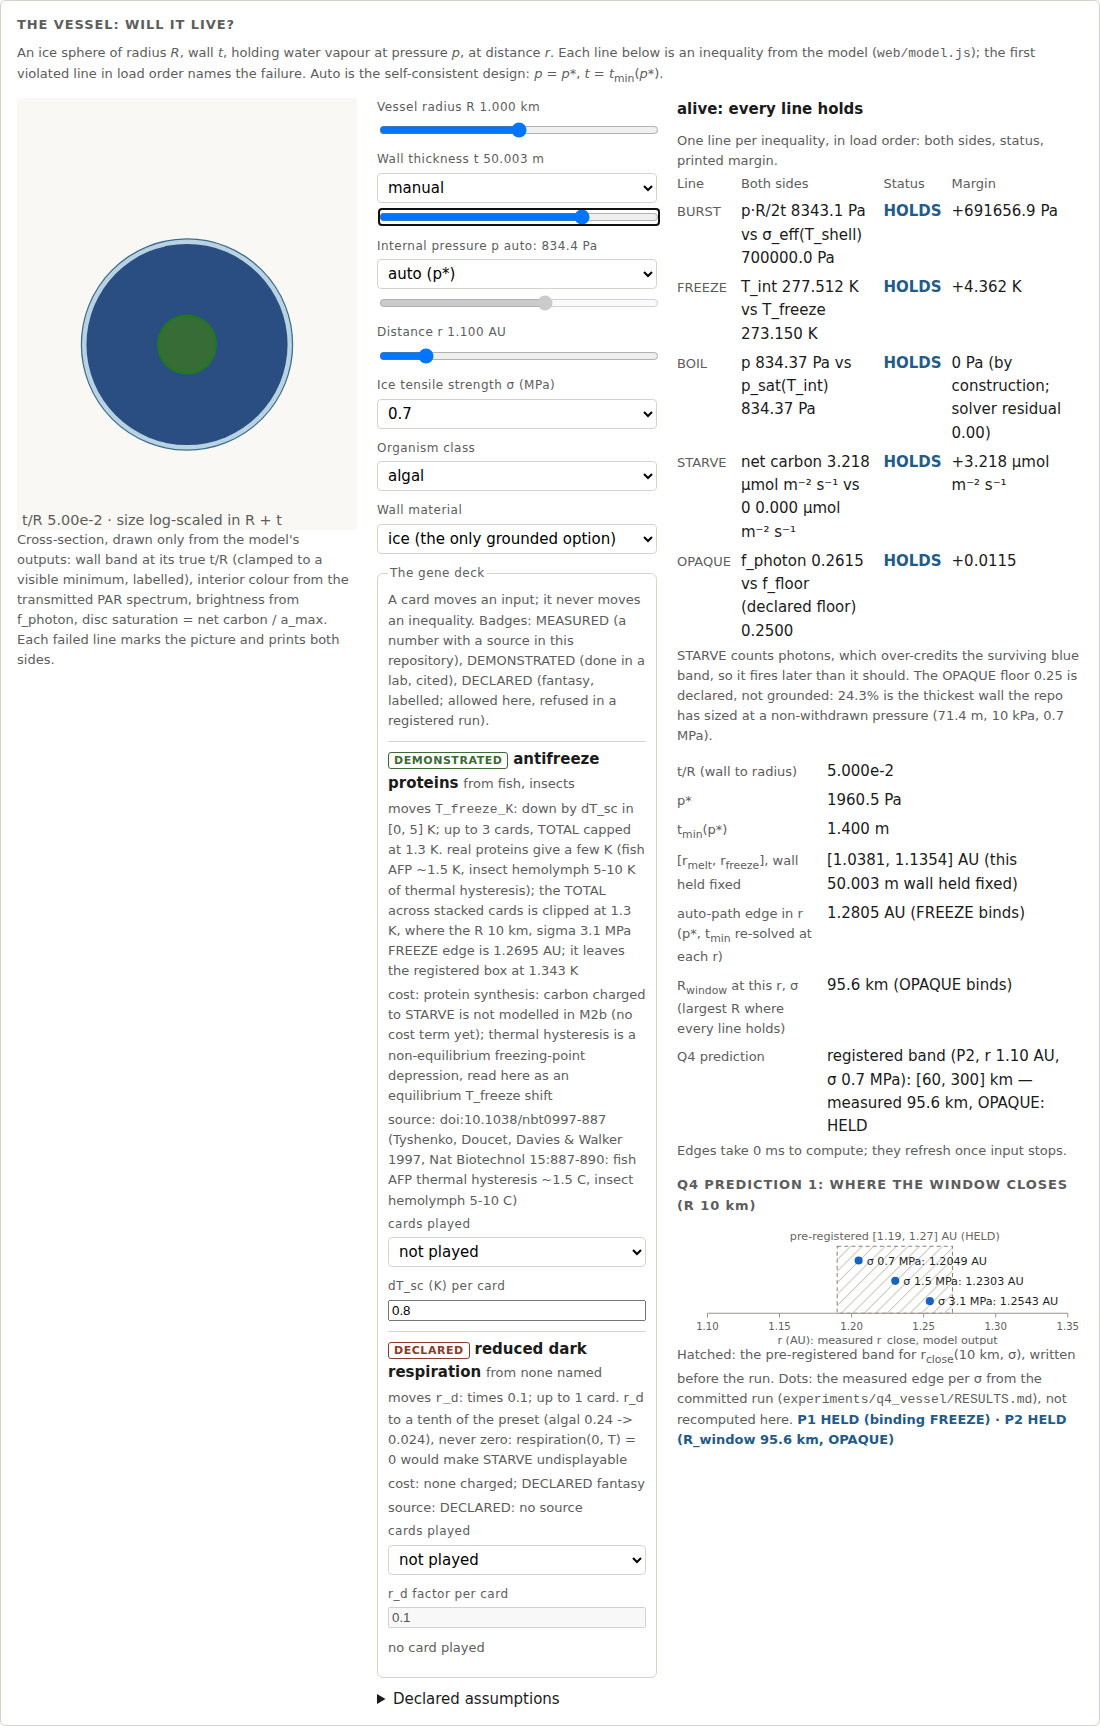
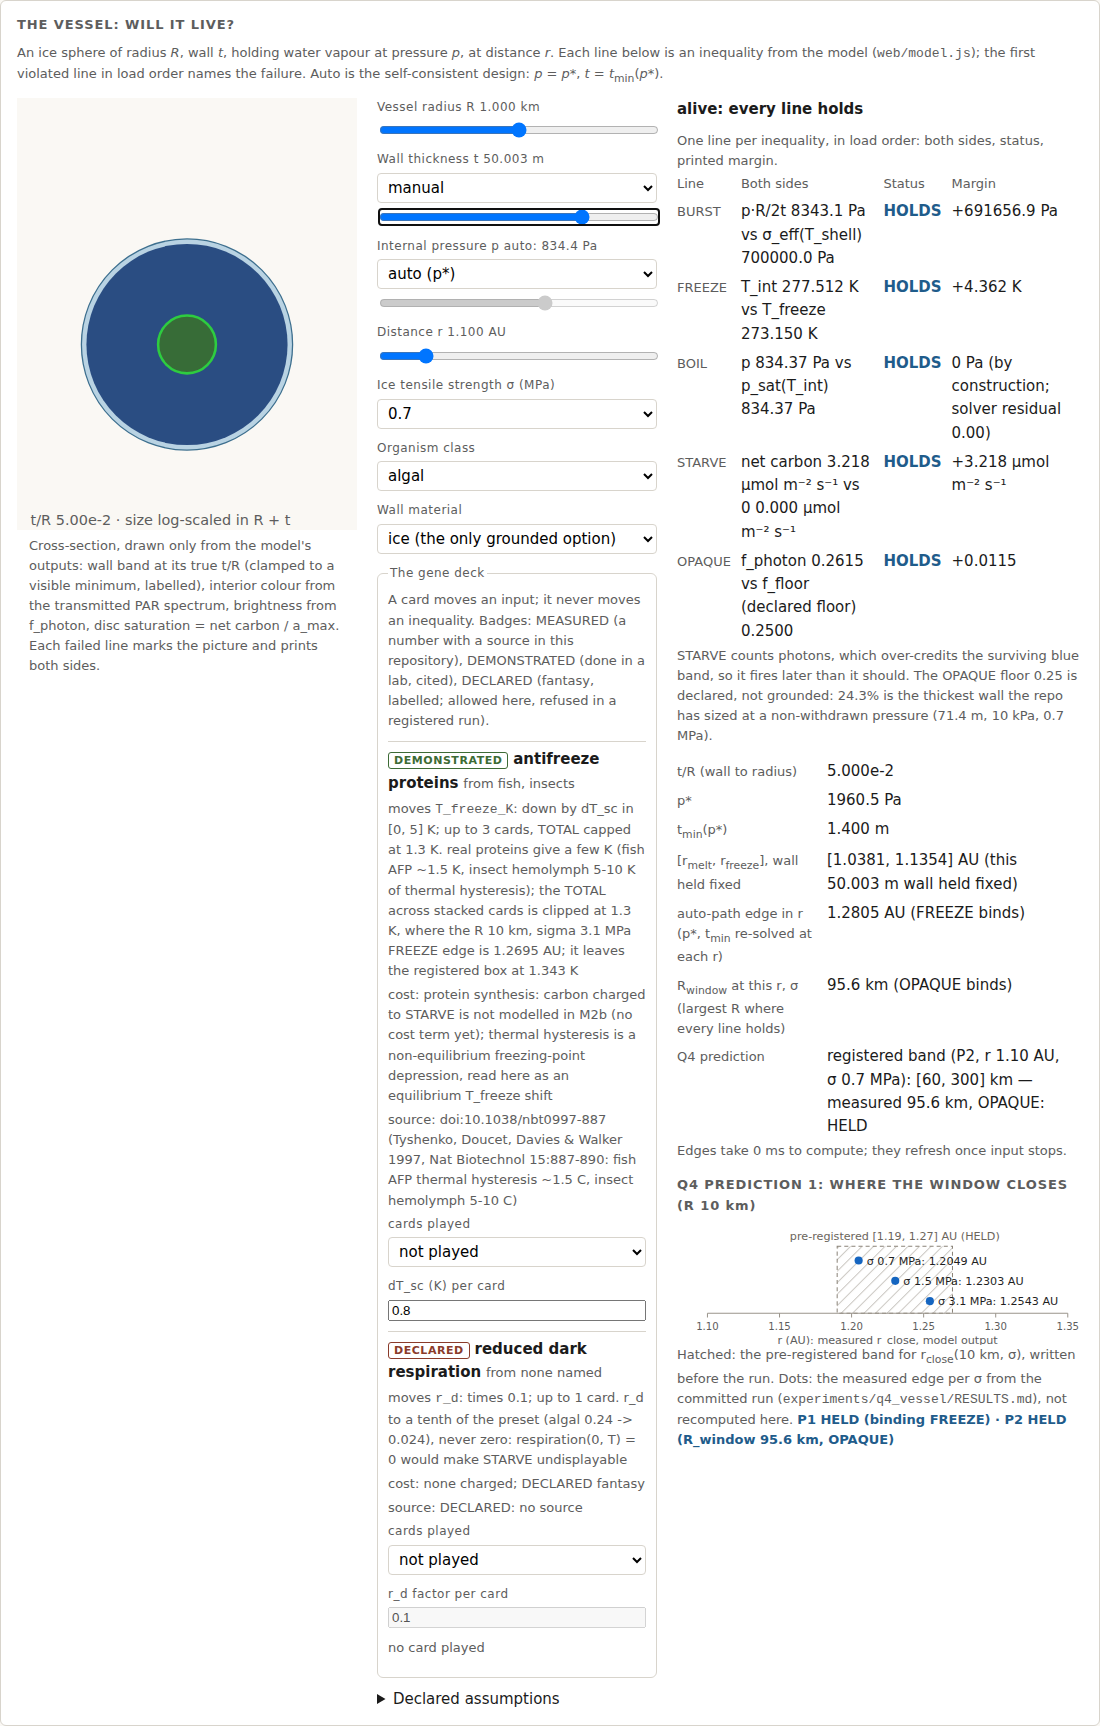
polish(critic round 4): P2 marks within half a row of their own line (edge expected 0.3 below, later root x 0.14 above, its expected 0.44 above), dashed links that stop a marker-radius short; OPAQUE leader haloed and ending on the f_photon arc tip; brighter green disc stroke; plates padded and full-

Changed region(s): [[0.0, 0.2764, 0.3091, 0.3992]]

diff --git a/web/picture.js b/web/picture.js
@@ -27,6 +27,7 @@
     MIN_BAND_PX = 3,
     FS = 17, // >= 12 px on screen at the page's figure width (smoke asserts it)
     LH = 19,
+    PLATE_PAD = 10, // text inset inside a plate
     ORG_R = 34, // the organism disc: one size and one centre in every state
     KEEP_PAD = 3, // units every mark keeps clear of a plate
     WRAP = 20,
@@ -157,15 +158,15 @@
   function label(parent, x, y, anchor, text, plate, n) {
     var lines = wrap(text, n);
     var wmax = Math.max.apply(null, lines.map(function (l) { return l.trim().length; }));
-    var w = wmax * FS * 0.64 + 10,
-      h = lines.length * LH + 6;
+    var w = wmax * FS * 0.64 + 2 * PLATE_PAD,
+      h = lines.length * LH + 2 * PLATE_PAD - 2;
     var x0 = anchor === "end" ? x - w : anchor === "middle" ? x - w / 2 : x;
     if (plate)
       el("rect", { x: x0.toFixed(1), y: (y - 2).toFixed(1), width: w.toFixed(1), height: h.toFixed(1),
         rx: 4, fill: "#ffffff", "fill-opacity": 0.92, stroke: FAIL, "stroke-width": 1 }, parent);
-    var tx = el("text", { x: x0 + 5, y: y + FS - 1, "font-size": FS, fill: INK }, parent);
+    var tx = el("text", { x: x0 + PLATE_PAD, y: y + FS + PLATE_PAD - 6, "font-size": FS, fill: INK }, parent);
     lines.forEach(function (l, i) {
-      var a = { x: (x0 + 5).toFixed(1), dy: i ? LH : 0 };
+      var a = { x: (x0 + PLATE_PAD).toFixed(1), dy: i ? LH : 0 };
       if (i === 0) {
         a["font-weight"] = 700;
         a.fill = FAIL;
@@ -179,7 +180,7 @@
   function plateSize(text, n) {
     var lines = wrap(text, n);
     var wmax = Math.max.apply(null, lines.map(function (l) { return l.trim().length; }));
-    return { w: wmax * FS * 0.64 + 10, h: lines.length * LH + 6 };
+    return { w: wmax * FS * 0.64 + 2 * PLATE_PAD, h: lines.length * LH + 2 * PLATE_PAD - 2 };
   }
   // Plates live OUTSIDE the vessel, in a strip above it (slots 0 right, 1 left) and, past two
   // plates, a strip below (2 right, 3 left); BURST takes slot 0, over its crack. Each plate gets
@@ -190,9 +191,12 @@
     if (order.length > 4) throw new Error("picture: more than four plates: " + order.join(", "));
     var out = {};
     order.forEach(function (n, slot) {
-      var wr = WRAP, sz = plateSize(texts[n], wr);
-      while (wr > 8 && (sz.w > COL_W || sz.h > STRIP_H)) sz = plateSize(texts[n], --wr);
-      if (sz.w > COL_W || sz.h > STRIP_H) throw new Error("picture: plate for " + n + " fits no wrap");
+      // alone in its strip, a plate may use the full width; otherwise one column
+      var alone = slot < 2 ? order.length === 1 : order.length === 3;
+      var maxW = alone ? W - 2 * MARGIN : COL_W;
+      var wr = 34, sz = plateSize(texts[n], wr);
+      while (wr > 8 && (sz.w > maxW || sz.h > STRIP_H)) sz = plateSize(texts[n], --wr);
+      if (sz.w > maxW || sz.h > STRIP_H) throw new Error("picture: plate for " + n + " fits no wrap");
       var right = slot % 2 === 0, top = slot < 2;
       var x0 = right ? W - MARGIN - sz.w : MARGIN;
       var y0 = top ? MARGIN : below0;
@@ -208,10 +212,10 @@
     var ends = { x1: anchor[0].toFixed(1), y1: anchor[1].toFixed(1), x2: lx.toFixed(1),
       y2: (pl.top ? b.y1 : b.y0).toFixed(1) };
     // a white halo under the leader, so it reads over a dark (OPAQUE) interior too
-    el("line", Object.assign({ stroke: "#ffffff", "stroke-width": 4.5, "stroke-opacity": 0.85,
-      "data-mark": "leader-halo" }, ends), g);
-    el("line", Object.assign({ stroke: FAIL, "stroke-width": 1.5, "data-mark": "leader" }, ends), g);
-    el("circle", { cx: anchor[0].toFixed(1), cy: anchor[1].toFixed(1), r: 3, fill: FAIL, "data-mark": "anchor" }, g);
+    el("line", Object.assign({ stroke: "#ffffff", "stroke-width": 6, "data-mark": "leader-halo" }, ends), g);
+    el("line", Object.assign({ stroke: FAIL, "stroke-width": 2, "data-mark": "leader" }, ends), g);
+    el("circle", { cx: anchor[0].toFixed(1), cy: anchor[1].toFixed(1), r: 4.5, fill: FAIL, stroke: "#ffffff",
+      "stroke-width": 2, "data-mark": "anchor" }, g);
   }
   // an interior wound's anchor: between the disc and the wall, toward the plate
   function interiorLabel(g, geo, text, n) {
@@ -356,7 +360,8 @@
       var fr = el("g", { "data-mark": "floor-ring" }, g);
       var af = -Math.PI / 2 + 2 * Math.PI * ff;
       segs(fr, [pt(rg - 9, af), pt(rg + 5, af)], { stroke: "#ffffff", "stroke-width": 3 }, geo.keep);
-      interiorLabel(g, geo, text, n);
+      // the leader ends on the arc's tip: the f_photon the plate names
+      plateWithLeader(g, geo.plates[n], text, pt(rg, -Math.PI / 2 + 2 * Math.PI * f));
     },
   };
 
@@ -415,7 +420,7 @@
     var sat = Math.max(0, Math.min(1, net / res.org.a_max));
     el("circle", { id: "pic-organism", cx: CX, cy: geo.oy.toFixed(2), r: rOrg.toFixed(2),
       fill: "hsl(120, " + (100 * sat).toFixed(1) + "%, 32%)",
-      stroke: net > 0 ? "#1f7a1f" : "#8a8a8a", "stroke-width": 2.5,
+      stroke: net > 0 ? "#2ecc40" : "#8a8a8a", "stroke-width": 3, // bright mid green: reads on navy and on pale
       "fill-opacity": rep.lines.STARVE.violated ? 0.35 : 1,
       "data-saturation": sat.toFixed(4) }, svg);
 
@@ -423,19 +428,19 @@
       var tip = pt(ro, (3 * Math.PI) / 4);
       el("line", { id: "pic-clamp-leader", x1: tip[0].toFixed(1), y1: tip[1].toFixed(1), x2: 40, y2: CLAMP_Y - 4,
         stroke: MUTED, "stroke-width": 1.2 }, svg);
-      var ct = el("text", { id: "pic-clamp", x: 6, y: CLAMP_Y + FS, "font-size": FS, fill: FAIL }, svg);
-      el("tspan", { x: 6, dy: 0 }, ct, "wall clamped to " + MIN_BAND_PX + " px;");
-      el("tspan", { x: 6, dy: LH }, ct,
+      var ct = el("text", { id: "pic-clamp", x: 16, y: CLAMP_Y + FS, "font-size": FS, fill: FAIL }, svg);
+      el("tspan", { x: 16, dy: 0 }, ct, "wall clamped to " + MIN_BAND_PX + " px;");
+      el("tspan", { x: 16, dy: LH }, ct,
         " true t/R " + fmtE(t / R) + " would draw " + (ro - riTrue).toFixed(2) + " px");
     }
     // a key for the OPAQUE gauge, bottom left above the footer (the clamp label's place; a
     // wall thin enough to clamp never darkens the interior below the floor)
     if (rep.lines.OPAQUE.violated) {
-      var kt = el("text", { id: "pic-key", x: 6, y: H - 6 - 2 * LH, "font-size": FS, fill: MUTED }, svg);
-      el("tspan", { x: 6, dy: 0 }, kt, "amber arc: f_photon reaching in;");
-      el("tspan", { x: 6, dy: LH }, kt, " white tick: declared floor");
+      var kt = el("text", { id: "pic-key", x: 16, y: H - 6 - 2 * LH, "font-size": FS, fill: MUTED }, svg);
+      el("tspan", { x: 16, dy: 0 }, kt, "amber arc: f_photon reaching in;");
+      el("tspan", { x: 16, dy: LH }, kt, " white tick: declared floor");
     }
-    el("text", { x: 6, y: H - 6, "font-size": FS, fill: MUTED }, svg,
+    el("text", { x: 16, y: H - 6, "font-size": FS, fill: MUTED }, svg,
       "t/R " + fmtE(t / R) + " · size log-scaled in R + t");
   }
 

diff --git a/web/index.html b/web/index.html
@@ -60,6 +60,7 @@
       .vessel { margin-bottom: 20px; }
       .vgrid { display: grid; grid-template-columns: 340px 280px minmax(0, 1fr); gap: 20px; align-items: start; }
       .vpic { margin: 0; }
+      .vpic figcaption { padding: 6px 12px 0; }
       .vpic svg { background: var(--bg); }
       .vinputs .control { margin-bottom: 10px; }
       .vinputs details .control { margin-top: 8px; }
